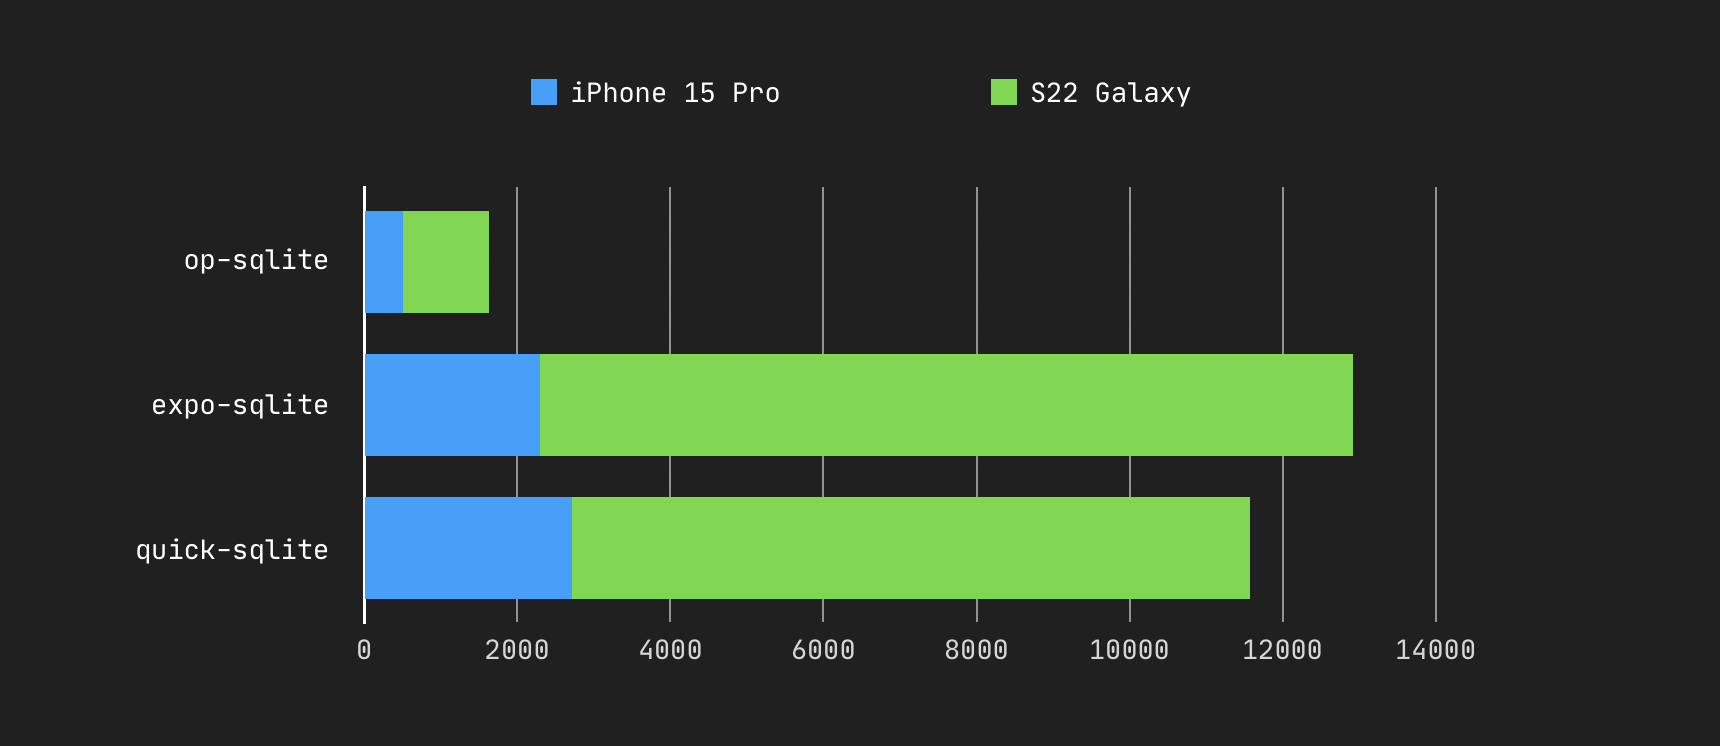
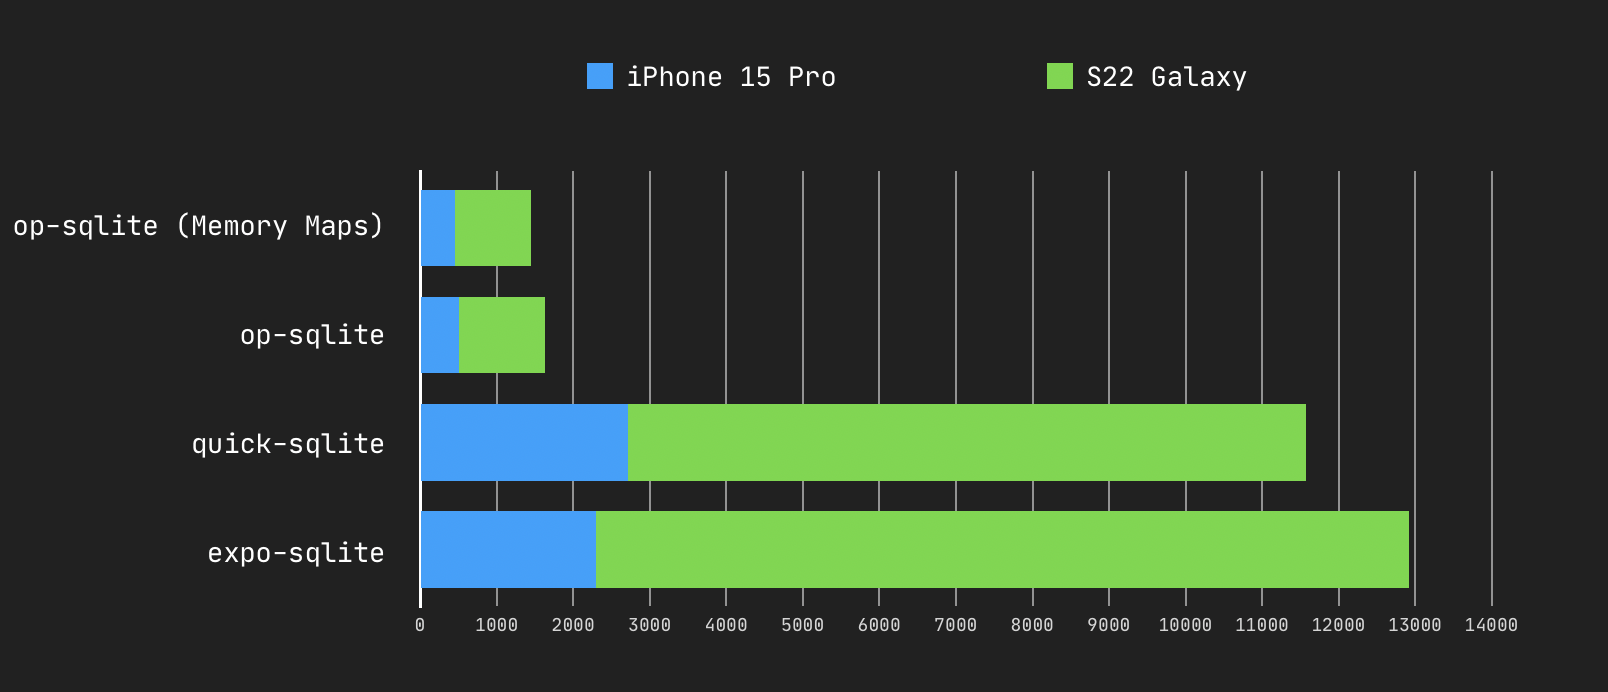
README

diff --git a/README.md b/README.md
@@ -22,6 +22,8 @@ You can find the [benchmarking code in the example app](https://github.com/OP-En
 
 Memory consumption is also 1/4 compared to `react-native-quick-sqlite`. This query used to take 1.2 GB of peak memory usage, and now runs in 250mbs.
 
+You can also turn on Memory Mapping to make your queries even faster by skipping the kernel during I/O, this comes with some disadvantages though. If you want even more speed and you can re-use your queries you can use prepared statements.
+
 # Encryption
 
 If you need to encrypt your entire database, there is [`op-sqlcipher`](https://github.com/OP-Engineering/op-sqlcipher), which is a fork of this library that uses [SQLCipher](https://github.com/sqlcipher/sqlcipher). It completely encrypts the database with minimal overhead.
@@ -102,6 +104,21 @@ const largeDb = open({
 });
 ```
 
+# Speed
+
+op-sqlite is already the fastest solution it can be, but it doesn't mean you cannot tweak SQLite to be faster (at the cost of some disadvantages). One possible tweak is turning on [Memory Mapping](https://www.sqlite.org/mmap.html). It allows to read/write to/from the disk without going through the kernel. However, if your queries throw an error your application might crash.
+
+To turn on Memory Mapping, execute the following pragma statement after opening a db:
+
+```ts
+const db = open({
+  name: 'mydb.sqlite',
+});
+
+// 0 turns of memory mapping, any other number enables it with the cache size
+db.execute('PRAGMA mmap_size=268435456');
+```
+
 # API
 
 ```typescript
@@ -134,7 +151,7 @@ db = {
 }
 ```
 
-### Simple queries
+## Simple queries
 
 The basic query is **synchronous**, it will block rendering on large operations, further below you will find async versions.
 
@@ -162,7 +179,7 @@ try {
 }
 ```
 
-### Multiple statements in a single string
+## Multiple statements in a single string
 
 You can execute multiple statements in a single operation. The API however is not really thought for this use case and the results (and their metadata) will be mangled, so you can discard it.
 
@@ -186,7 +203,7 @@ let t2name = db.execute(
 console.log(t2name.rows?._array[0].name); // outputs "T2"
 ```
 
-### Transactions
+## Transactions
 
 Throwing an error inside the callback will ROLLBACK the transaction.
 
@@ -215,7 +232,7 @@ await db.transaction('myDatabase', (tx) => {
 });
 ```
 
-### Batch operation
+## Batch operation
 
 Batch execution allows the transactional execution of a set of commands
 
@@ -232,7 +249,7 @@ const res = db.executeSqlBatch('myDatabase', commands);
 console.log(`Batch affected ${result.rowsAffected} rows`);
 ```
 
-### Dynamic Column Metadata
+## Dynamic Column Metadata
 
 In some scenarios, dynamic applications may need to get some metadata information about the returned result set.
 
@@ -253,7 +270,7 @@ metadata.forEach((column) => {
 });
 ```
 
-### Async operations
+## Async operations
 
 You might have too much SQL to process and it will cause your application to freeze. There are async versions for some of the operations. This will offload the SQLite processing to a different thread.
 
@@ -267,7 +284,7 @@ db.executeAsync(
 );
 ```
 
-### Blobs
+## Blobs
 
 Blobs are supported via `ArrayBuffer`, you need to be careful about the semantics though. You cannot instantiate an instance of `ArrayBuffer` directly, nor pass a typed array directly. Here is an example:
 
@@ -295,7 +312,22 @@ const result = db.execute('SELECT content FROM BlobTable');
 const finalUint8 = new Uint8Array(result.rows!._array[0].content);
 ```
 
-### Attach or Detach other databases
+## Prepared statements
+
+A lot of the work when executing queries is not iterating through the result set itself but, sometimes, planning the execution. If you have a query which is expensive but you can re-use (even if you have to change the arguments) you can use a `prepared statement`:
+
+```ts
+const statement = db.prepareStatement('SELECT * FROM User WHERE name = ?;');
+statement.bind(['Oscar']);
+let results1 = statement.execute();
+
+statement.bind(['Carlos']);
+let results2 = statement.execute();
+```
+
+You only pay the price of parsing the query once, and each subsequent execution should be faster.
+
+# Attach or Detach other databases
 
 SQLite supports attaching or detaching other database files into your main database connection through an alias.
 You can do any operation you like on this attached database like JOIN results across tables in different schemas, or update data or objects.
@@ -322,7 +354,7 @@ if (!detachResult.status) {
 }
 ```
 
-### Loading SQL Dump Files
+# Loading SQL Dump Files
 
 If you have a SQL dump file, you can load it directly, with low memory consumption:
 
@@ -334,7 +366,7 @@ const { rowsAffected, commands } = db
   });
 ```
 
-## Hooks
+# Hooks
 
 You can subscribe to changes in your database by using an update hook:
 
@@ -396,7 +428,7 @@ db.commitHook(null);
 db.rollbackHook(null);
 ```
 
-## Use built-in SQLite
+# Use built-in SQLite
 
 On iOS you can use the embedded SQLite, when running `pod-install` add an environment flag:
 
@@ -406,11 +438,11 @@ OP_SQLITE_USE_PHONE_VERSION=1 npx pod-install
 
 On Android, it is not possible to link the OS SQLite. It is also a bad idea due to vendor changes, old android bugs, etc. Unfortunately, this means this library will add some megabytes to your app size.
 
-## Enable compile-time options
+# Enable compile-time options
 
 By specifying pre-processor flags, you can enable optional features like FTS5, Geopoly, etc.
 
-### iOS
+## iOS
 
 Add a `post_install` block to your `<PROJECT_ROOT>/ios/Podfile` like so:
 
@@ -429,7 +461,7 @@ end
 Replace the `<SQLITE_FLAGS>` part with the flags you want to add.
 For example, you could add `SQLITE_ENABLE_FTS5=1` to `GCC_PREPROCESSOR_DEFINITIONS` to enable FTS5 in the iOS project.
 
-### Android
+## Android
 
 You can specify flags via `<PROJECT_ROOT>/android/gradle.properties` like so:
 
@@ -437,18 +469,18 @@ You can specify flags via `<PROJECT_ROOT>/android/gradle.properties` like so:
 OPSQLiteFlags="-DSQLITE_ENABLE_FTS5=1"
 ```
 
-## Additional configuration
+# Additional configuration
 
-### App groups (iOS only)
+## App groups (iOS only)
 
 On iOS, the SQLite database can be placed in an app group, in order to make it accessible from other apps in that app group. E.g. for sharing capabilities.
 
 To use an app group, add the app group ID as the value for the `OPSQLite_AppGroup` key in your project's `Info.plist` file. You'll also need to configure the app group in your project settings. (Xcode -> Project Settings -> Signing & Capabilities -> Add Capability -> App Groups)
 
-## Contribute
+# Contribute
 
 You need to have clang-format installed (`brew install clang-format`)
 
-## License
+# License
 
 MIT License.
